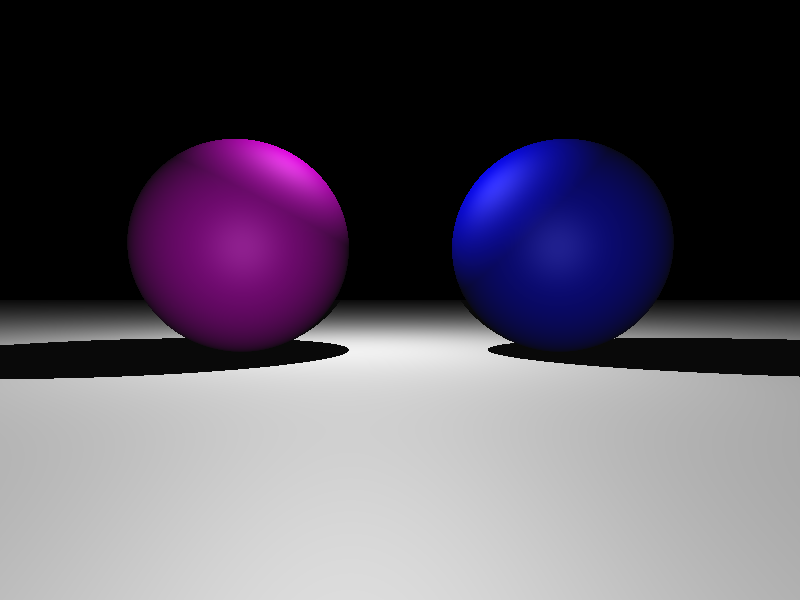
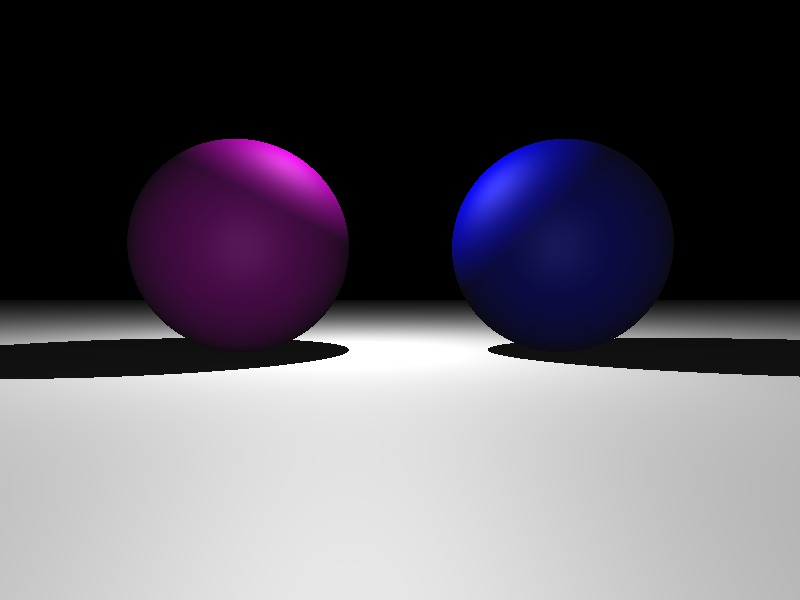
fix shadow bug

Changed region(s): [[0.1562, 0.27, 0.8438, 0.66]]

diff --git a/RayTracer/Object.h b/RayTracer/Object.h
@@ -38,6 +38,9 @@ protected:
 
 	mutable real_t distToInter = std::numeric_limits<real_t>::infinity();	// distance to intersection point
 
+	virtual const Object *getObj() const = 0;
+	virtual std::shared_ptr<Surface> getInterPointSurfaceProperty() const = 0;
+
 public:
 	explicit Intersect(const Ray &_ray) : ray(_ray) {}
 	virtual ~Intersect() {}
@@ -45,18 +48,23 @@ public:
 	Intersect(const Intersect &) = delete;
 	Intersect &operator = (const Intersect &) = delete;
 
-	virtual const Object *getObj() const = 0;
 	virtual real_t getDistToInter() const = 0;
 
 	virtual bool isIntersect() const = 0;		// only finding if they're intersected
-	virtual Vec3 getIntersection() const {														// find intersection point
+	virtual Vec3 getIntersection() const {		// find intersection point
 		return ray.getDistPoint(distToInter);
 	}
-	virtual Vec3 getNormal() const = 0;															// get normal vector
+	virtual Vec3 getNormal() const = 0;			// get normal vector
+
+	std::shared_ptr<Surface> getSurface() const {
+		auto surface = getObj()->getTexture()->getSurfaceProperty();
+		if (surface) return surface;
+		return getInterPointSurfaceProperty();
+	};
 
 	virtual IntersectInfo getIntersectInfo() {
 		auto obj = getObj();
 		assert(obj->getTexture());
-		return IntersectInfo{ getIntersection(), getNormal(), getObj()->getTexture()->getSurfaceProperty() };
+		return IntersectInfo{ getIntersection(), getNormal(), getSurface() };
 	}
 };

diff --git a/RayTracer/Phong.cpp b/RayTracer/Phong.cpp
@@ -1,5 +1,7 @@
 #include "Constants.h"
-#include "Phong.h"
+#include "Scene.h"
+
+using namespace std;
 
 Vec3 Phong::getColor(const Ray &ray) const {
 	auto intersect = scene.getIntersect(ray);
@@ -22,12 +24,8 @@ Vec3 Phong::getPhongLocal(const IntersectInfo &info, const Ray &ray) const {
 	Vec3 N = info.normal;
 	Vec3 V = (ray.orig - info.interPoint).getNormalized();
 	for (auto &light : scene.lights) {
-		Vec3 toLight = light->getCenter() - info.interPoint;
-		Vec3 dirToLight = toLight.getNormalized();
-		real_t distToLight = toLight.norm();
-		Ray shadowTestRay{ info.interPoint + epsilon * dirToLight, dirToLight };
-		if (scene.isIntersect(shadowTestRay, distToLight)) {
-			return Vec3::BLACK;
+		if (isShadow(light, info)) {
+			continue;
 		}
 
 		Vec3 L = (light->getCenter() - info.interPoint).getNormalized();
@@ -45,4 +43,12 @@ Vec3 Phong::getPhongLocal(const IntersectInfo &info, const Ray &ray) const {
 	}
 
 	return diffuse + specular;
+}
+
+bool Phong::isShadow(const shared_ptr<Light> &light, const IntersectInfo &info) const {
+	Vec3 toLight = light->getCenter() - info.interPoint;
+	Vec3 dirToLight = toLight.getNormalized();
+	real_t distToLight = toLight.norm();
+	Ray shadowTestRay{ info.interPoint + epsilon * dirToLight, dirToLight };
+	return scene.isIntersect(shadowTestRay, distToLight);
 }

diff --git a/RayTracer/Main.cpp b/RayTracer/Main.cpp
@@ -13,7 +13,7 @@ using namespace std;
 int main() {
 	Viewer viewer{ { 800, 600 }, { 0.0, 0.0, 0.0 }, { 0.0, 0.0, -1.0 }, { 0.0, 1.0, 0.0 }, 60 };
 	Scene scene;
-	scene.addLight(make_shared<Light>(Light({ 0.0, 0.0, 1.0 }, { 0.5, 0.5, 0.5 })));
+	scene.addLight(make_shared<Light>(Light({ 0.0, 0.0, 1.0 }, { 0.25, 0.25, 0.25 })));
 	scene.addLight(make_shared<Light>(Light({ -1.0, 5.0, -10.0 }, { 1.0, 1.0, 1.0 })));
 	scene.addObject(make_shared<Sphere>(Sphere(make_shared<PureTexture>(Surface::MAGENTA), { -3.0, 1.0, -10.0 }, 2.0)));
 	scene.addObject(make_shared<Sphere>(Sphere(make_shared<PureTexture>(Surface::BLUE), { 3.0, 1.0, -10.0 }, 2.0)));

diff --git a/RayTracer/Scene.cpp b/RayTracer/Scene.cpp
@@ -5,9 +5,8 @@ using namespace std;
 shared_ptr<Shader> Scene::getShader(ShaderType type) const {
 	if (type == PHONG) {
 		return make_shared<Phong>(*this);
-	} else {
-		return nullptr;
 	}
+	return nullptr;
 }
 
 void Scene::addLight(const shared_ptr<Light> &light) {
@@ -21,11 +20,8 @@ void Scene::addObject(const shared_ptr<Object> &object) {
 bool Scene::isIntersect(const Ray &ray, real_t dist) const {
 	for (const auto &obj : objs) {
 		auto intersect = obj->getTrace(ray, dist);
-		if (intersect) {
-			return true;
-		}
+		if (intersect) return true;
 	}
-
 	return false;
 }
 

diff --git a/RayTracer/Sphere.h b/RayTracer/Sphere.h
@@ -30,13 +30,17 @@ private:
 	mutable real_t halfCord2;
 	mutable Vec3 interPoint;
 
-public:
-	SphereIntersect(const Sphere &_sphere, const Ray &_ray) : Intersect(_ray), sphere(_sphere) {}
-	~SphereIntersect() {}
+	virtual std::shared_ptr<Surface> getInterPointSurfaceProperty() const override {
+		return nullptr;
+	};
 
 	const Object *getObj() const override {
 		return &sphere;
 	}
+
+public:
+	SphereIntersect(const Sphere &_sphere, const Ray &_ray) : Intersect(_ray), sphere(_sphere) {}
+	~SphereIntersect() {}
 
 	real_t getDistToInter() const override;
 

diff --git a/RayTracer/Plane.h b/RayTracer/Plane.h
@@ -55,13 +55,17 @@ private:
 
 	mutable real_t projOrigToInter, projDir;
 
-public:
-	PlaneIntersect(const Plane &_plane, const Ray &_ray) : Intersect(_ray), plane(_plane) {}
-	~PlaneIntersect() {}
+	virtual std::shared_ptr<Surface> getInterPointSurfaceProperty() const override {
+		return nullptr;
+	};
 
 	const Object *getObj() const override {
 		return &plane;
 	}
+
+public:
+	PlaneIntersect(const Plane &_plane, const Ray &_ray) : Intersect(_ray), plane(_plane) {}
+	~PlaneIntersect() {}
 
 	real_t getDistToInter() const override;
 

diff --git a/RayTracer/Texture.h b/RayTracer/Texture.h
@@ -10,6 +10,7 @@ public:
 	virtual ~Texture() {}
 
 	virtual std::shared_ptr<Surface> getSurfaceProperty() const = 0;
+	virtual std::shared_ptr<Surface> getSurfaceProperty(real_t x, real_t y) const = 0;
 };
 
 class PureTexture : public Texture {
@@ -24,5 +25,10 @@ public:
 
 	std::shared_ptr<Surface> getSurfaceProperty() const {
 		return surface;
+	}
+
+	std::shared_ptr<Surface> getSurfaceProperty(real_t x, real_t y) const {
+		assert(false);
+		return nullptr;
 	}
 };

diff --git a/RayTracer/Scene.h b/RayTracer/Scene.h
@@ -48,4 +48,6 @@ public:
 
 private:
 	Vec3 getPhongLocal(const IntersectInfo &info, const Ray &ray) const;
+
+	bool isShadow(const std::shared_ptr<Light> &light, const IntersectInfo &info) const;
 };
